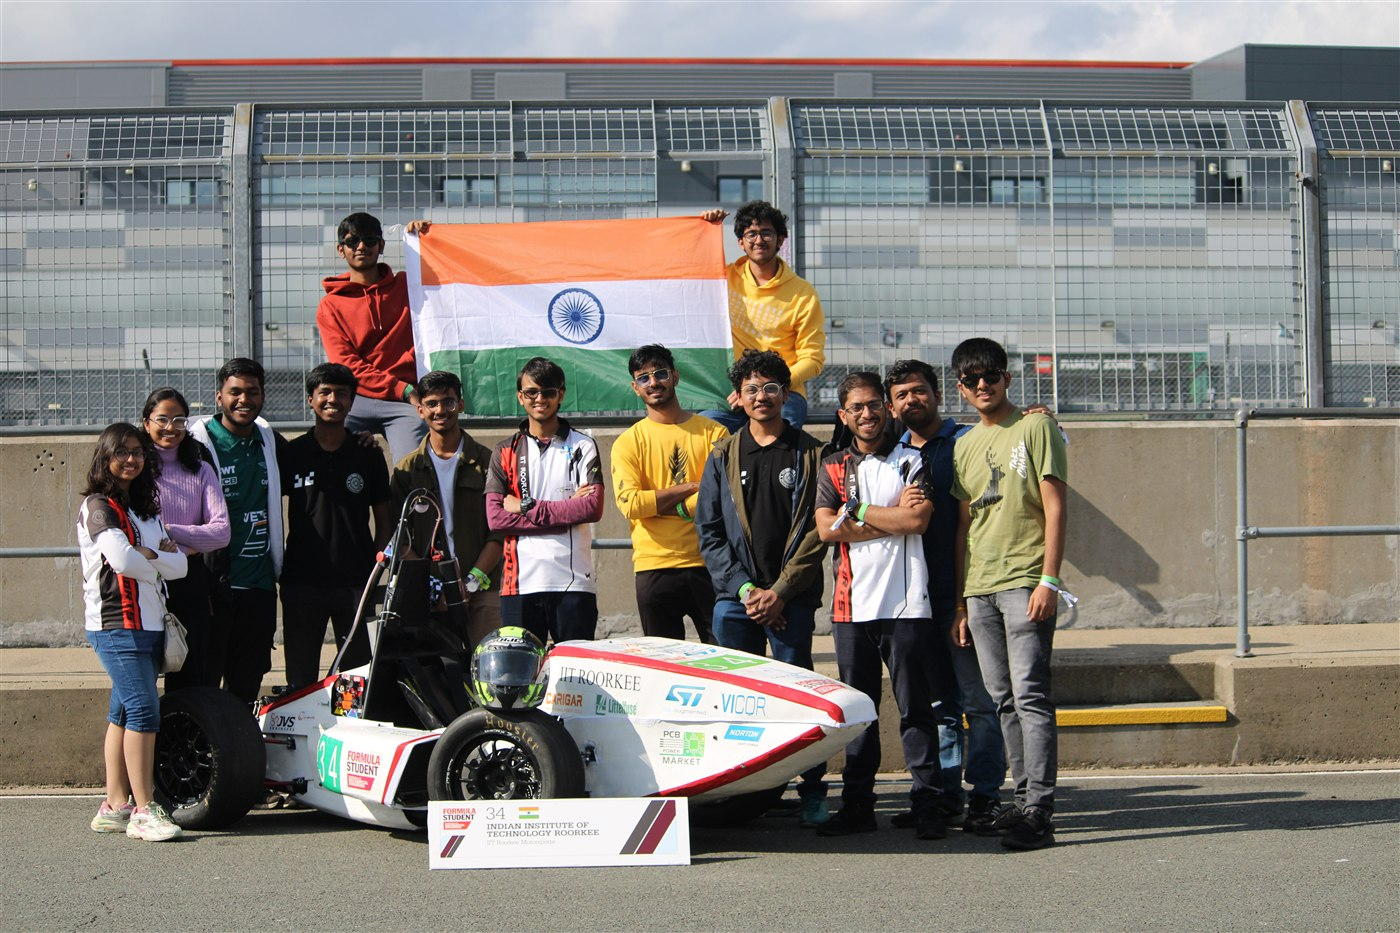
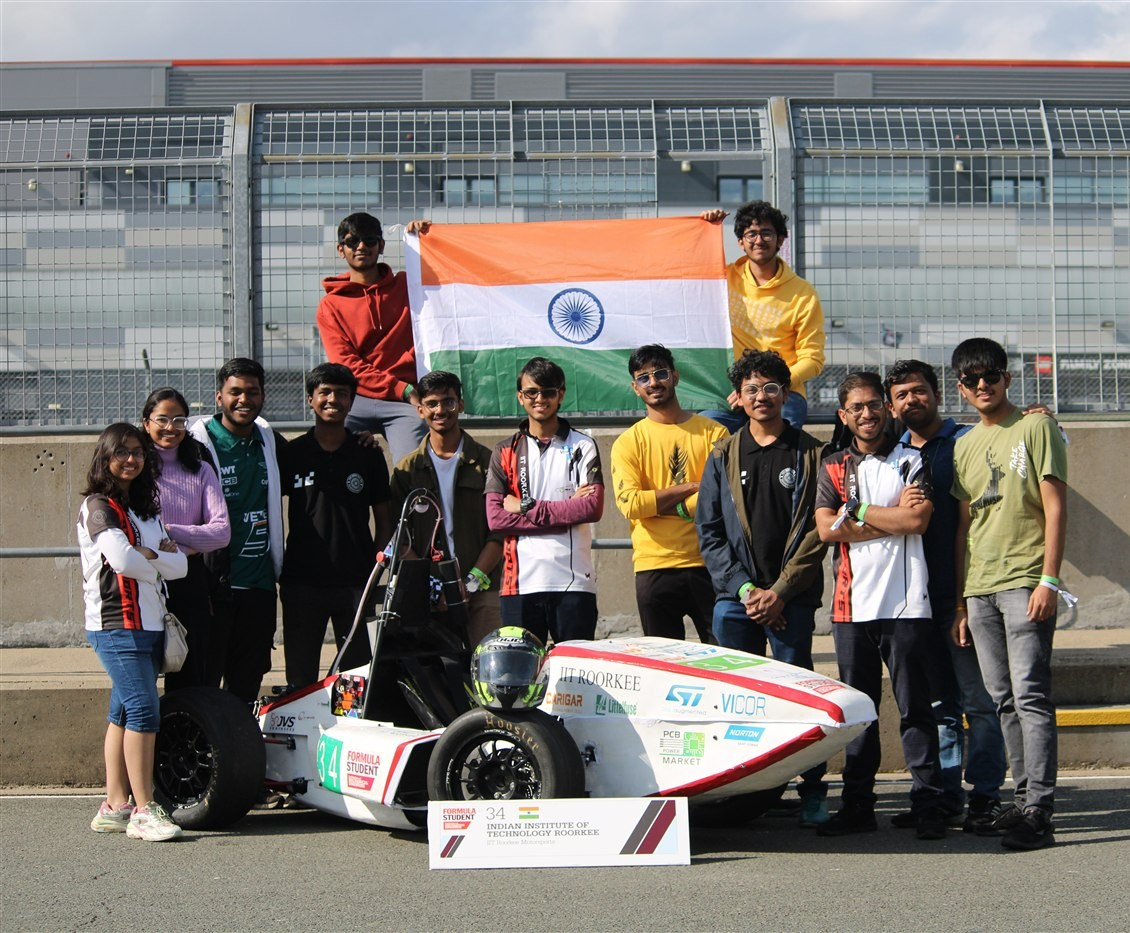
Trim empty background from leadership photo, enlarge to compensate
Crop the photo's right edge down to just past the last person (removing
empty pavement/railing), widen the displayed photo from 420px to 520px
to make up for the lost width, and switch back to cover with no white
letterboxing now that the aspect ratio is a close match.

diff --git a/assets/css/style.css b/assets/css/style.css
@@ -459,7 +459,7 @@ button.stat-clickable .stat-label { text-decoration: underline dotted var(--text
 @media (max-width: 620px) { .tl-item { grid-template-columns: 1fr; gap: 6px; } }
 .leadership-layout { display: flex; gap: 32px; align-items: stretch; }
 .leadership-layout .timeline { flex: 1; min-width: 0; }
-.leadership-photo { width: 420px; flex-shrink: 0; object-fit: contain; background: #fff; border: 1px solid var(--line); align-self: stretch; }
+.leadership-photo { width: 520px; flex-shrink: 0; object-fit: cover; border: 1px solid var(--line); align-self: stretch; }
 @media (max-width: 820px) { .leadership-layout { flex-direction: column; } .leadership-photo { width: 100%; height: 320px; } }
 
 
